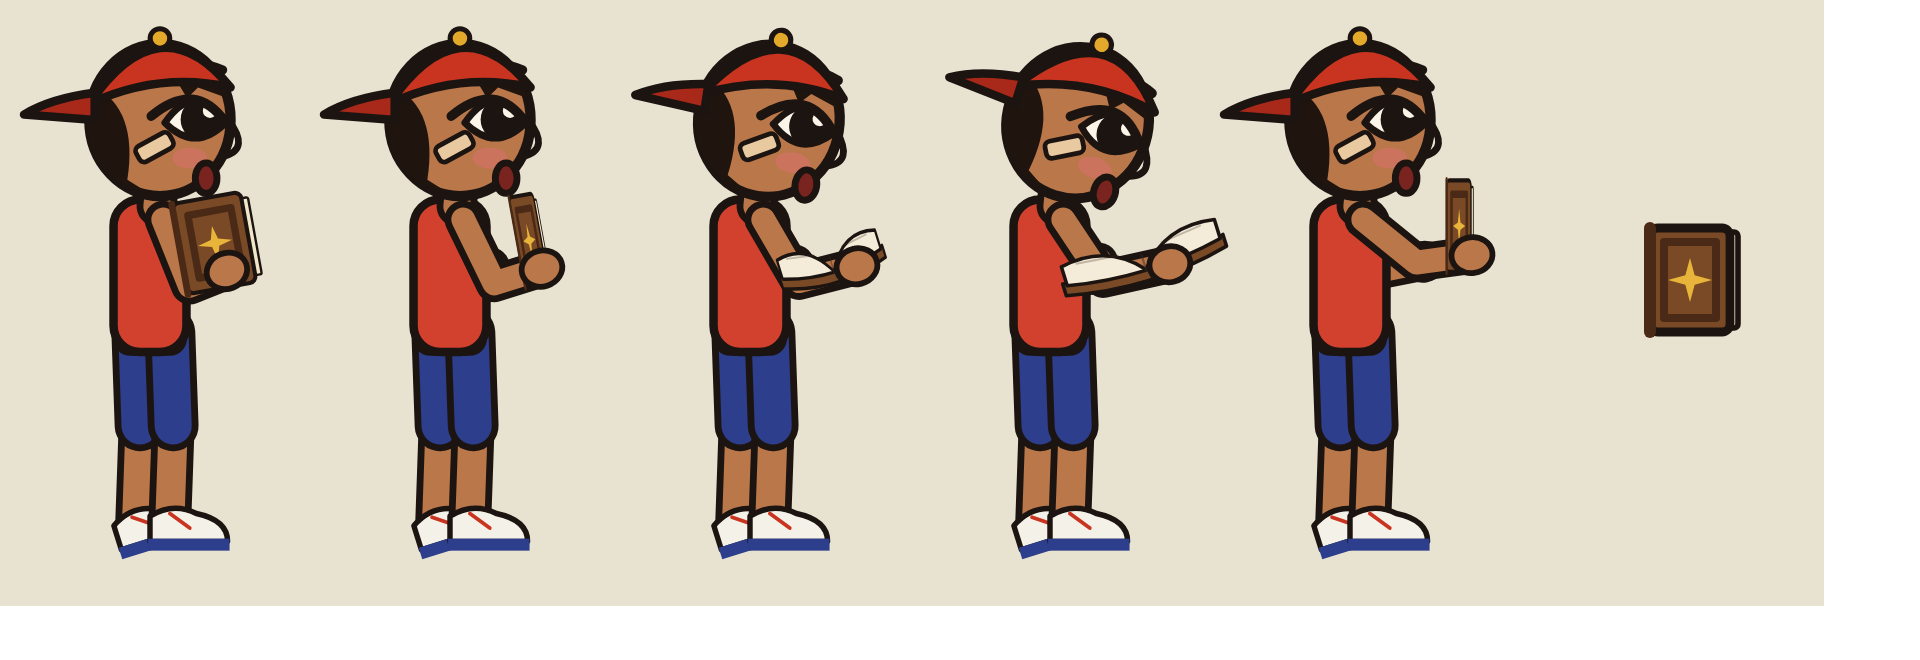
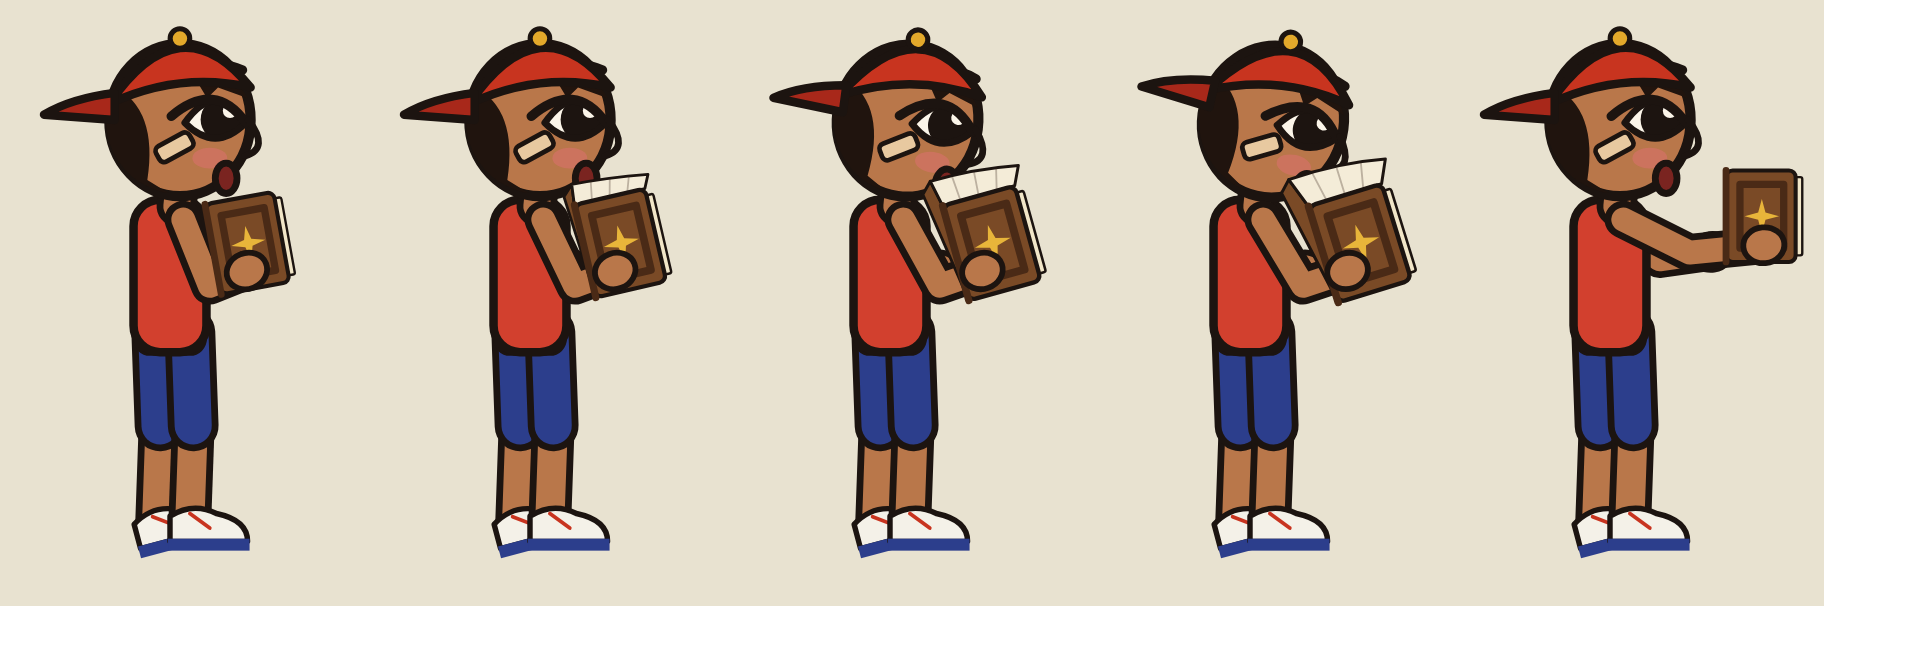
1.4.4-demo: reading pose from the user's reference
Claude-Session: https://claude.ai/code/session_011sGuDQJunPbrnJRzfH8xkJ

diff --git a/index.html b/index.html
@@ -1834,7 +1834,7 @@ function drawPupu(x, y, face1, o) {
     if (o.push) return front ? [sx, sy, sx + 9, sy + 8, sx + 18, sy + 11] : [sx, sy, sx + 8, sy + 9, sx + 16, sy + 12];   // (v262) pushing: both hands flat on the trolley
     if (o.book) { const u = Math.min(1, o.book.open || 0), pl = o.book.place || 0;   // (v277, user's reference sheet) hold: against his chest · read: open in front at chest height · place: both arms reach forward
       if (pl > 0) return front ? [sx, sy, sx + 6 + 4 * pl, sy + 8 - 3 * pl, sx + 11 + 9 * pl, sy + 7 - 3 * pl] : [sx, sy, sx + 5 + 4 * pl, sy + 9 - 3 * pl, sx + 8 + 8 * pl, sy + 8 - 3 * pl];
-      return front ? [sx, sy, sx + 4 + 2 * u, sy + 10 - u, sx + 9 + 6 * u, sy + 8 - u] : [sx, sy, sx + 3 + 2 * u, sy + 10 - u, sx + 6 + 2 * u, sy + 8 - u]; }   // (v274) holding the storybook in front of him, open or shut
+      return front ? [sx, sy, sx + 4 + 2 * u, sy + 10, sx + 9 + 3 * u, sy + 8] : [sx, sy, sx + 3 + 2 * u, sy + 10, sx + 6 + 3 * u, sy + 8]; }   // (v274) holding the storybook in front of him, open or shut
     if (o.carry) return front ? [sx, sy, sx + 5, sy + 9, sx + 11, sy + 6] : [sx, sy, sx + 4, sy + 9, sx + 10, sy + 6];   // carrying the radio in both hands
     if (o.remote && front) { const u = o.remote; return [sx, sy, sx + 2 + 9 * u, sy + 10 - 9 * u, sx + 3 + 17 * u, sy + 20 - 25 * u]; }
     if (o.pouch !== undefined && front) return [sx, sy, sx + 6, sy + 8, sx + 13, sy + 9];   // arm out over the bowl, holding the treat pouch
@@ -1859,14 +1859,13 @@ function drawPupu(x, y, face1, o) {
     if (tq && front && o.throwT < THROW_REL) circ(hx2 + 1, hy2, 2.4, '#6A5A4A', 1.2);   // the stone in his hand
     if (o.holdStone && front && !tq) circ(hx2 + 1, hy2 - 1, 2.8, '#8A8478', 1.3);
     if (o.plane && front && !(tq && o.throwT >= THROW_REL)) akPlane(hx2 + 2, hy2 - 3, 0.5, tq ? -0.5 : -0.2, 1);
-    if (o.book && front) { const u = Math.min(1, o.book.open || 0), pl = o.book.place || 0;
-      if (u < 0.5 || pl > 0) { const k = pl > 0 ? 1 : 1 - u * 2, bx = hx2 - 1, by = hy2 - 4; ctx.save(); ctx.translate(bx, by); ctx.rotate(pl > 0 ? 0 : -0.18); ctx.scale(Math.max(0.35, k), 1);   // shut: an upright cloth-bound book, its cover towards us
-        box(4, -6.4, 2, 11.8, '#F1E6C8', 0.3, 0.7); box(-5.5, -7.4, 10.5, 13.8, '#7A4A26', 1, 1.2); ctx.strokeStyle = '#4A2A16'; ctx.lineWidth = 1.1; ctx.strokeRect(-3.4, -5.3, 6.6, 9.6); line(-5.5, -7.4, -5.5, 6.4, '#4A2A16', 2); star4(-0.1, -0.5, 2.6, '#E8B53A'); ctx.restore(); G.bookW = {x: x + face1 * SP * bx, y: y + SP * by}; }
-      else { const k = (u - 0.5) * 2, bx = hx2 - 3, by = hy2 - 1; ctx.save(); ctx.translate(bx, by); ctx.rotate(-0.3); ctx.scale((0.4 + 0.6 * k) * 1.15, 1.15);   // open: held out flat to read, the pages dipping into the gutter
-        ctx.beginPath(); ctx.moveTo(-11, 0); ctx.quadraticCurveTo(0, 2.6, 11, 0); ctx.lineTo(11, 1.6); ctx.quadraticCurveTo(0, 4.2, -11, 1.6); ctx.closePath(); fs('#7A4A26', 0.9);
-        ctx.beginPath(); ctx.moveTo(-10.5, -2.2); ctx.quadraticCurveTo(-4, -3.4, 0, 1.4); ctx.quadraticCurveTo(4, -3.4, 10.5, -2.2); ctx.lineTo(10.5, 0.4); ctx.quadraticCurveTo(0, 2.6, -10.5, 0.4); ctx.closePath(); fs('#F4ECD8', 0.9);
-        line(0, -0.6, 0, 1.6, 'rgba(60,40,30,.45)', 0.6); for (const sd of [-1, 1]) line(sd * 3, -1.4, sd * 8.5, -2, 'rgba(60,40,30,.28)', 0.5);
-        ctx.restore(); G.bookW = {x: x + face1 * SP * bx, y: y + SP * (by - 2)}; } }
+    if (o.book && front) { const u = Math.min(1, o.book.open || 0), pl = o.book.place || 0, k = pl > 0 ? 0 : u, bx = hx2 + 1 + 2 * k, by = hy2 - 4;   // (v278, user's reference) open or shut, the brown cover with its gold star faces us; open, the cream pages fan up towards his face
+      ctx.save(); ctx.translate(bx, by); ctx.rotate(pl > 0 ? 0 : -0.18 - 0.12 * k); ctx.scale(1 + 0.1 * k, 1 + 0.1 * k);
+      if (k > 0.02) { ctx.beginPath(); ctx.moveTo(-5.5, 6.4); ctx.lineTo(-5.5 - 3 * k, -8 - 2.2 * k); ctx.lineTo(-4 - 3 * k, -9.5 - 2.2 * k); ctx.lineTo(-5.5, -7.4); ctx.closePath(); fs('#7A4A26', 0.8);   // the other half's cover, swung back
+        ctx.beginPath(); ctx.moveTo(-5.5, -7.4); ctx.lineTo(-4 - 3 * k, -9.5 - 2.2 * k); ctx.quadraticCurveTo(0, -9 - 3 * k, 5.5 + 1 * k, -8.5 - 2 * k); ctx.lineTo(5, -7.4); ctx.closePath(); fs('#F4ECD8', 0.8);   // the pages, fanned open
+        for (let j = 1; j < 4; j++) { const f = j / 4; line(-5.5 + 10.5 * f, -7.4, -4 - 3 * k + (9.5 + 4 * k) * f, -9.5 - 2.2 * k + f, 'rgba(60,40,30,.3)', 0.5); } }
+      box(4, -6.4, 2, 11.8, '#F1E6C8', 0.3, 0.7); box(-5.5, -7.4, 10.5, 13.8, '#7A4A26', 1, 1.2); ctx.strokeStyle = '#4A2A16'; ctx.lineWidth = 1.1; ctx.strokeRect(-3.4, -5.3, 6.6, 9.6); line(-5.5, -7.4, -5.5, 6.4, '#4A2A16', 2); star4(-0.1, -0.5, 2.6, '#E8B53A');
+      ctx.restore(); G.bookW = {x: x + face1 * SP * (bx - 1), y: y + SP * (by - 9 - 2 * k)}; }
     if (o.carry && front) drawRadioBox(hx2 - 1, hy2 + 14, 0.3, ['battery', 'knob', 'antenna'], false);   // (v266) hanging from his hands by its strap handle   // (v262) Dadu's radio, held against his chest
     if (o.remote && front) { ctx.save(); ctx.translate(hx2, hy2); ctx.rotate(Math.atan2(hy2 - ey2, hx2 - ex2)); box(-2, -2.2, 10, 4.4, '#222228', 1.5, 1.2); circ(7, 0, 0.9, '#E04A3A', 0); ctx.restore(); }
     ctx.beginPath(); ctx.ellipse(hx2 + (hx2 - ex2) * 0.12, hy2 + (hy2 - ey2) * 0.12, 2.7, 3.1, Math.atan2(hy2 - ey2, hx2 - ex2) - Math.PI / 2, 0, Math.PI * 2); fs(SKIN, 1.7); // hand
@@ -1879,7 +1878,7 @@ function drawPupu(x, y, face1, o) {
   ctx.restore();
   ctx.restore();
   limb(shX + 1, shY + 1, headX, headY + 8, SKIN, 4);
-  if (o.book && (o.book.open || 0) > 0.4 && !(o.book.place > 0)) { const r = 0.3 * Math.min(1, (o.book.open - 0.4) / 0.6); ctx.save(); ctx.translate(headX, headY + 9); ctx.rotate(r); ctx.translate(-headX, -(headY + 9)); pupuHead(headX, headY, o, ex); ctx.restore(); }   // (v277) reading: his head tips down to the pages
+  if (o.book && (o.book.open || 0) > 0.4 && !(o.book.place > 0)) { const r = 0.22 * Math.min(1, (o.book.open - 0.4) / 0.6); ctx.save(); ctx.translate(headX, headY + 9); ctx.rotate(r); ctx.translate(-headX, -(headY + 9)); pupuHead(headX, headY, o, ex); ctx.restore(); }   // (v277) reading: his head tips down to the pages
   else pupuHead(headX, headY, o, ex);
   drawArm(true);
   if (o.drink) { const mx = headX + 7, my = headY + 9; ctx.save(); ctx.translate(mx + 1, my - 2); ctx.rotate(-0.5); box(-3, -5, 6, 11, 'rgba(190,225,240,.95)', 1.5, 1.6); ctx.restore(); }

diff --git a/sw.js b/sw.js
@@ -1,5 +1,5 @@
 // Pupu's World service worker: always try the network first (so updates show at once), fall back to the saved copy when offline
-const C='pupu-1.4.3',F=['./','index.html','manifest.json','icons/icon-192.png','icons/icon-512.png'];
+const C='pupu-1.4.4',F=['./','index.html','manifest.json','icons/icon-192.png','icons/icon-512.png'];
 self.addEventListener('install',e=>{self.skipWaiting();e.waitUntil(caches.open(C).then(c=>c.addAll(F)));});
 self.addEventListener('activate',e=>e.waitUntil(caches.keys().then(ks=>Promise.all(ks.filter(k=>k!==C).map(k=>caches.delete(k)))).then(()=>self.clients.claim())));
 self.addEventListener('fetch',e=>{if(e.request.method!=='GET')return;

diff --git a/docs/BUILD_NOTES.md b/docs/BUILD_NOTES.md
@@ -464,3 +464,6 @@ The user sent a full design document (saved as `claude/chapter4-library-design.m
 - **Book poses (`o.book` in `drawPupu`):** *hold* (shut): both hands hold it upright against his chest, cover towards us · *read* (`open` → 1): held out flat at chest height, tipped up towards him, the pages dipping into the gutter, his head tips down to the pages (`pupuHead` rotated about the neck) · *place* (`place` 0 → 1): both arms reach straight forward with the book upright (used to set it on the library's book stand). Opening narrows the shut cover, then the open book widens.
 - **The book's design (from the reference):** brown leather (#7A4A26) with a darker inset border (#4A2A16), a gold four-pointed star in the middle (`star4`), cream page edges. Same in his hands, lying on the secret room floor, and as Dadu's thing #4 icon (`thingIcon(3)`).
 - The library arrival now stands him beside the book stand (x 1352) so he can reach forward and place it.
+
+## v278 (user's "Read" reference)
+- **Reading pose redrawn:** the open book stays at chest height, held a little out from his body; the brown cover with its gold star still faces us, the other half's cover swings back and the cream pages fan up towards him (short, so they never cover his face); his head tips down a little. The opening is smooth from shut to open (no flattening). The beam rises from the top of the pages.

diff --git a/docs/ART_BIBLE.md b/docs/ART_BIBLE.md
@@ -61,4 +61,4 @@
 
 
 ## Dadu's storybook (v277)
-Brown leather cover (#7A4A26) with a darker inset border (#4A2A16), a gold four-pointed star in the middle (#E8B53A), cream page edges. Held against the chest when carried; held out flat at chest height to read, head tipped down; both arms forward to place it.
+Brown leather cover (#7A4A26) with a darker inset border (#4A2A16), a gold four-pointed star in the middle (#E8B53A), cream page edges. Held against the chest when carried; held open at chest height to read (cover and star still facing us, the pages fanned up towards him, never over his face), head tipped down; both arms forward to place it.

diff --git a/CHANGELOG.md b/CHANGELOG.md
@@ -1,5 +1,8 @@
 # Changelog
 
+## 1.4.4-demo · 2026-11-13
+- Reading pose: Pupu holds the open storybook at his chest, cover and gold star facing us, pages fanned up towards him.
+
 ## 1.4.3-demo · 2026-11-13
 - Dadu's storybook redesigned: brown leather, a darker border and a gold four-pointed star.
 - New book poses: held against the chest, held out open to read (head tipped down), and both arms forward to place it.
